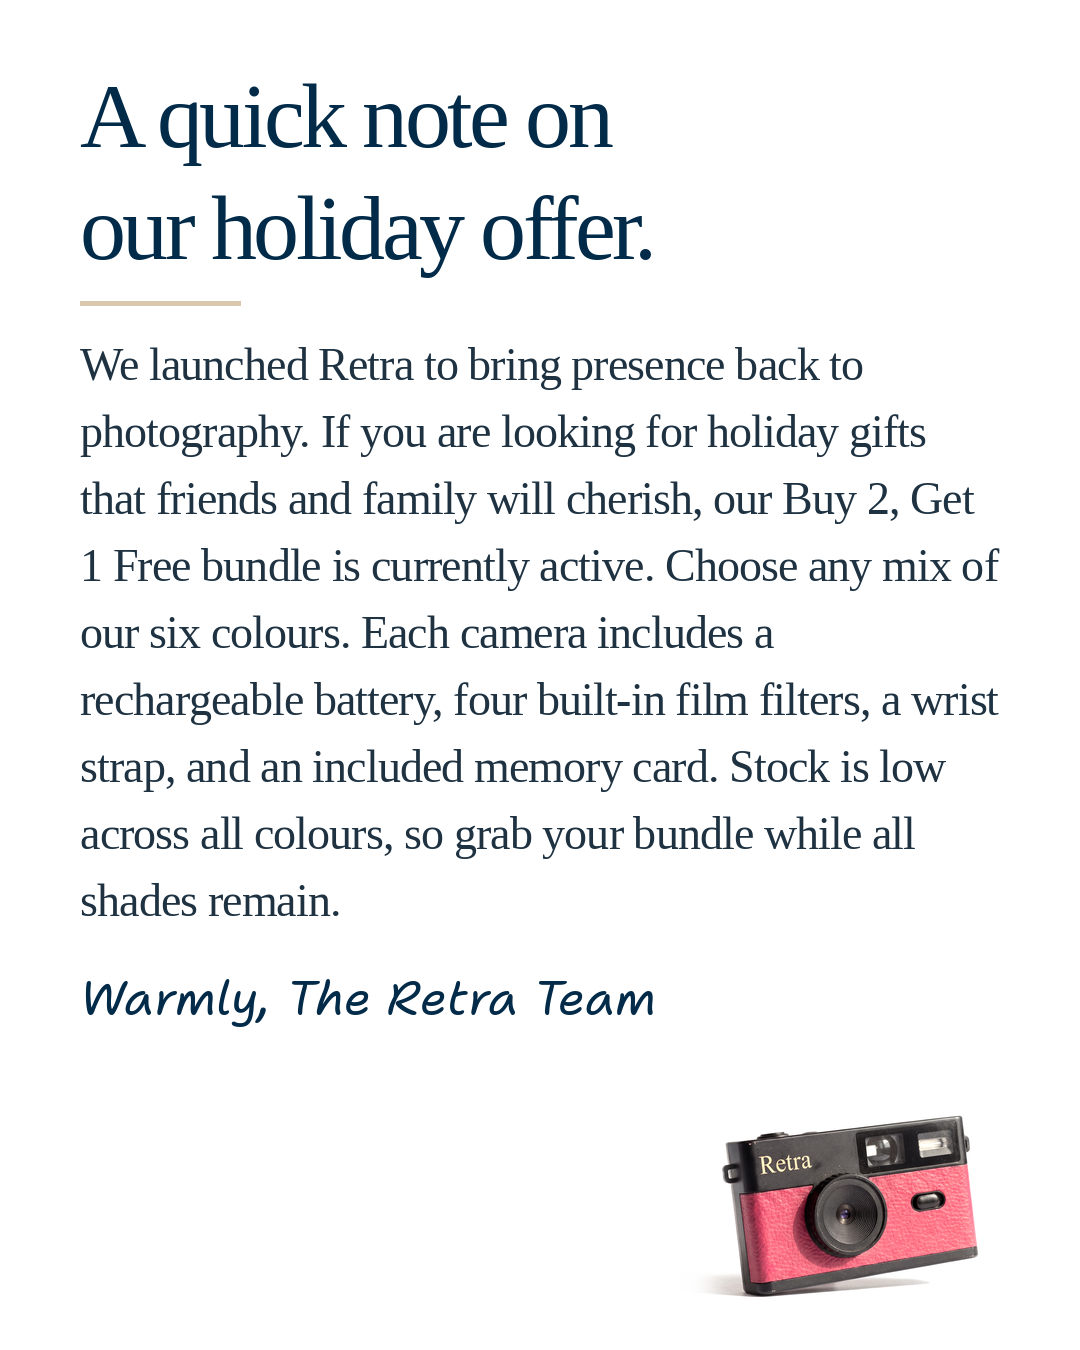
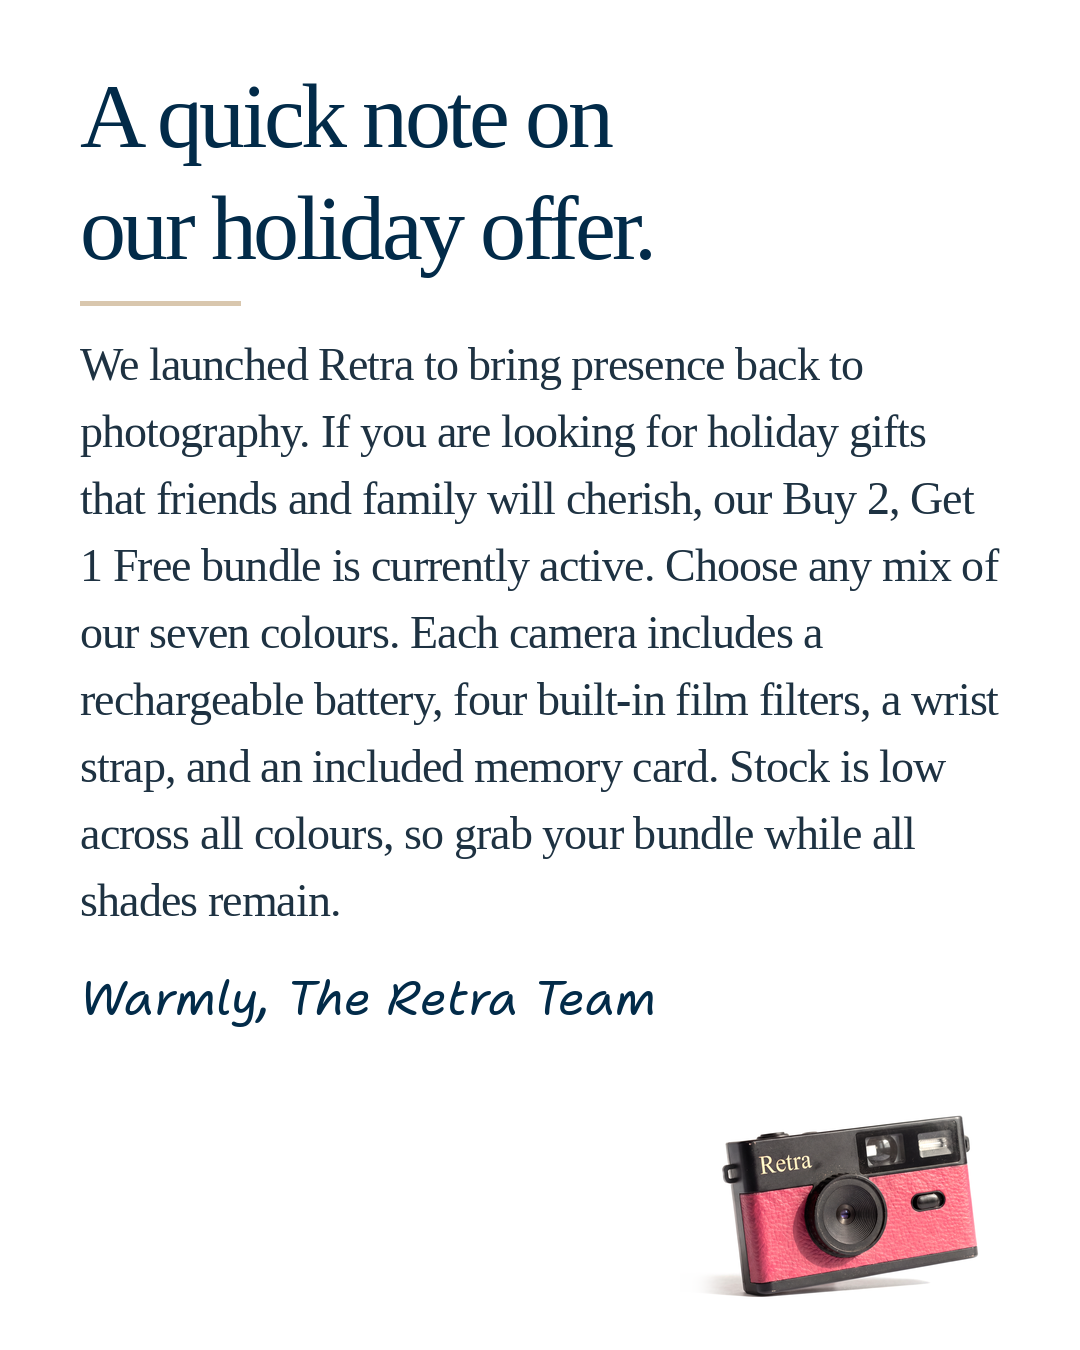
Retra W49: new store colour names (+ Blue as 7th colour) across copy, CSV and statics 11/15/34/50/D4
Claude-Session: https://claude.ai/code/session_01Mp8pTs9zpTh5aGe4znSQmT

Changed region(s): [[0.1528, 0.4356, 0.7639, 0.4978]]

diff --git a/ads/brands/retra/weeks/2026-W49-angles/colour_rename.py b/ads/brands/retra/weeks/2026-W49-angles/colour_rename.py
@@ -1,0 +1,53 @@
+"""Store renamed the colours (Shopify, checked 2026-11-27) and added a 7th:
+Chalk->White, Obsidian->Midnight, Sol->Yellow, Dune->Brown, Pine->Green Forest, Blossom->Red, new: Blue (alt 'Aegean').
+Fact swap only (names + colour count) across the copy files and the concepts CSV. python3 colour_rename.py"""
+import csv
+import json
+import re
+from pathlib import Path
+
+HERE = Path(__file__).resolve().parent
+SUBS = [
+    ("Chalk, Obsidian, Sol, Dune, Pine, and Blossom", "White, Midnight, Yellow, Brown, Green Forest, Blue, and Red"),
+    ("Chalk, Obsidian, Sol, Dune, Pine, or Blossom", "White, Midnight, Yellow, Brown, Green Forest, Blue, or Red"),
+    ("including Blossom, Sol, and Dune", "including Red, Yellow, and Brown"),
+    ("All 6 colours", "All 7 colours"),
+    ("stock on all six is", "stock on all seven is"),
+]
+SIX = re.compile(r"\b([Ss])ix (curated |classic |timeless |gorgeous )?(colou?r(?:s|ways))\b")
+OLD = re.compile(r"\b(Chalk|Obsidian|Dune|Blossom)\b|\bSol\b(?! )|\bPine\b")
+
+
+def fix(t):
+    for a, b in SUBS:
+        t = t.replace(a, b)
+    t = SIX.sub(lambda m: ("S" if m.group(1) == "S" else "s") + "even " + (m.group(2) or "") + m.group(3), t)
+    return t
+
+
+def walk(o):
+    if isinstance(o, dict):
+        return {k: (v if k in ("format", "id", "angle") else walk(v)) for k, v in o.items()}
+    if isinstance(o, list):
+        return [walk(v) for v in o]
+    return fix(o) if isinstance(o, str) else o
+
+
+if __name__ == "__main__":
+    for f in ["copy.json", "copy_b2.json", "copy_klik.json", "copy_pain.json", "copy_disney.json"]:
+        p = HERE / f
+        d = json.load(open(p))
+        json.dump(walk(d), open(p, "w"), indent=1, ensure_ascii=False)
+    p = HERE / "output/RET_A49_concepts.csv"
+    rows = list(csv.DictReader(open(p)))
+    fields = list(rows[0].keys())
+    for r in rows:
+        for k in ("on_image_text", "meta_headline", "primary_text"):
+            r[k] = fix(r[k])
+    with open(p, "w", newline="") as fh:
+        w = csv.DictWriter(fh, fieldnames=fields)
+        w.writeheader()
+        w.writerows(rows)
+    left = [(r["id"], m.group(0)) for r in rows for k in ("on_image_text", "meta_headline", "primary_text")
+            for m in OLD.finditer(r[k])]
+    print("old names left:", left)

diff --git a/ads/brands/retra/weeks/2026-W49-angles/disney.py b/ads/brands/retra/weeks/2026-W49-angles/disney.py
@@ -170,16 +170,16 @@ def d4(c):
     pb = top + pr.height
     prod(img, "p34_chalk", 340, 810, pb - 60)
     d = ImageDraw.Draw(img)
-    names = [n.title() for n in COLOURS]
-    gap = 160
-    x0 = W / 2 - gap * 2.5
+    gap = 140
+    x0 = W / 2 - gap * 3
     yy = pb + 100
-    for i, n in enumerate(COLOURS):
+    f = inter(22, "Medium")
+    for i, n in enumerate(lib.STORE_ORDER):
         cx = x0 + i * gap
         d.ellipse((cx - 30, yy, cx + 30, yy + 60), fill=SWATCH[n], outline=(210, 214, 218), width=2)
-        f = inter(24, "Medium")
-        draw_text(d, (cx - measure(f, names[i]) / 2, yy + 70), names[i], f, BODY)
-    lib.TEXT_BOXES.append((x0 - 40, yy, x0 + gap * 5 + 40, yy + 100))
+        nm = lib.STORE_NAME[n]
+        draw_text(d, (cx - measure(f, nm) / 2, yy + 70), nm, f, BODY)
+    lib.TEXT_BOXES.append((x0 - 60, yy, x0 + gap * 6 + 60, yy + 100))
     pill(img, S(c, "cta"), inter(36, "SemiBold"), W / 2, min(yy + 175, 1575), "cta", WHITE, padx=56, pady=18)
     return img
 

diff --git a/ads/brands/retra/weeks/2026-W49-angles/lib.py b/ads/brands/retra/weeks/2026-W49-angles/lib.py
@@ -27,7 +27,11 @@ RED = (178, 34, 34)
 WHITE = (255, 255, 255)
 COLOURS = ["chalk", "obsidian", "sol", "dune", "pine", "blossom"]
 SWATCH = {"chalk": (236, 229, 214), "obsidian": (38, 38, 40), "sol": (226, 172, 46), "dune": (184, 108, 62),
-          "pine": (96, 104, 66), "blossom": (206, 52, 92)}
+          "pine": (96, 104, 66), "blossom": (206, 52, 92), "aegean": (170, 197, 209)}
+# Store display names (Shopify, renamed 2026-11-27; Blue/"aegean" is the 7th colour). Keys stay the old asset names.
+STORE_NAME = {"chalk": "White", "obsidian": "Midnight", "sol": "Yellow", "dune": "Brown", "pine": "Green Forest",
+              "aegean": "Blue", "blossom": "Red"}
+STORE_ORDER = ["chalk", "dune", "pine", "aegean", "sol", "blossom", "obsidian"]  # store variant order
 
 def font(name, size, weight=None):
     f = ImageFont.truetype(str(FONTS / name), size)

diff --git a/ads/brands/retra/weeks/2026-W49-angles/README.md b/ads/brands/retra/weeks/2026-W49-angles/README.md
@@ -65,3 +65,9 @@ camera beside it (`d4p`; plain lab print, not instant film, since Retra doesn't 
 parents' Disney photos vs your camera roll" (`d3v1`, `d3v2` faded 90s prints; `d3p` tiled as a camera roll).
 Fireworks split (D1V Vintage, D1F Film): one clean castle-fireworks render (`d5`), left half as shot, right half through
 the landing-page filter curve (`compose_gallery.retra_filter`), slider divider. ILLUSTRATIVE. Sheet: `output/_sheet_disney_split_4x5.jpg`.
+
+## Colour rename (2026-11-27, from the Shopify store)
+Chalk->White, Obsidian->Midnight, Sol->Yellow, Dune->Brown, Pine->Green Forest, Blossom->Red, plus a 7th colour Blue
+(alt text "Aegean"). `colour_rename.py` swapped names and "six"->"seven" colours in all copy files and the CSV; lib.py
+has STORE_NAME / STORE_ORDER and the Blue swatch. Re-rendered statics with colours on the image: 11, 15, 34, 50, D4.
+Open: the store's compare-at price is now $200 (statics still say $165 / 40% off); 11 shows six tiles under "All 7".
